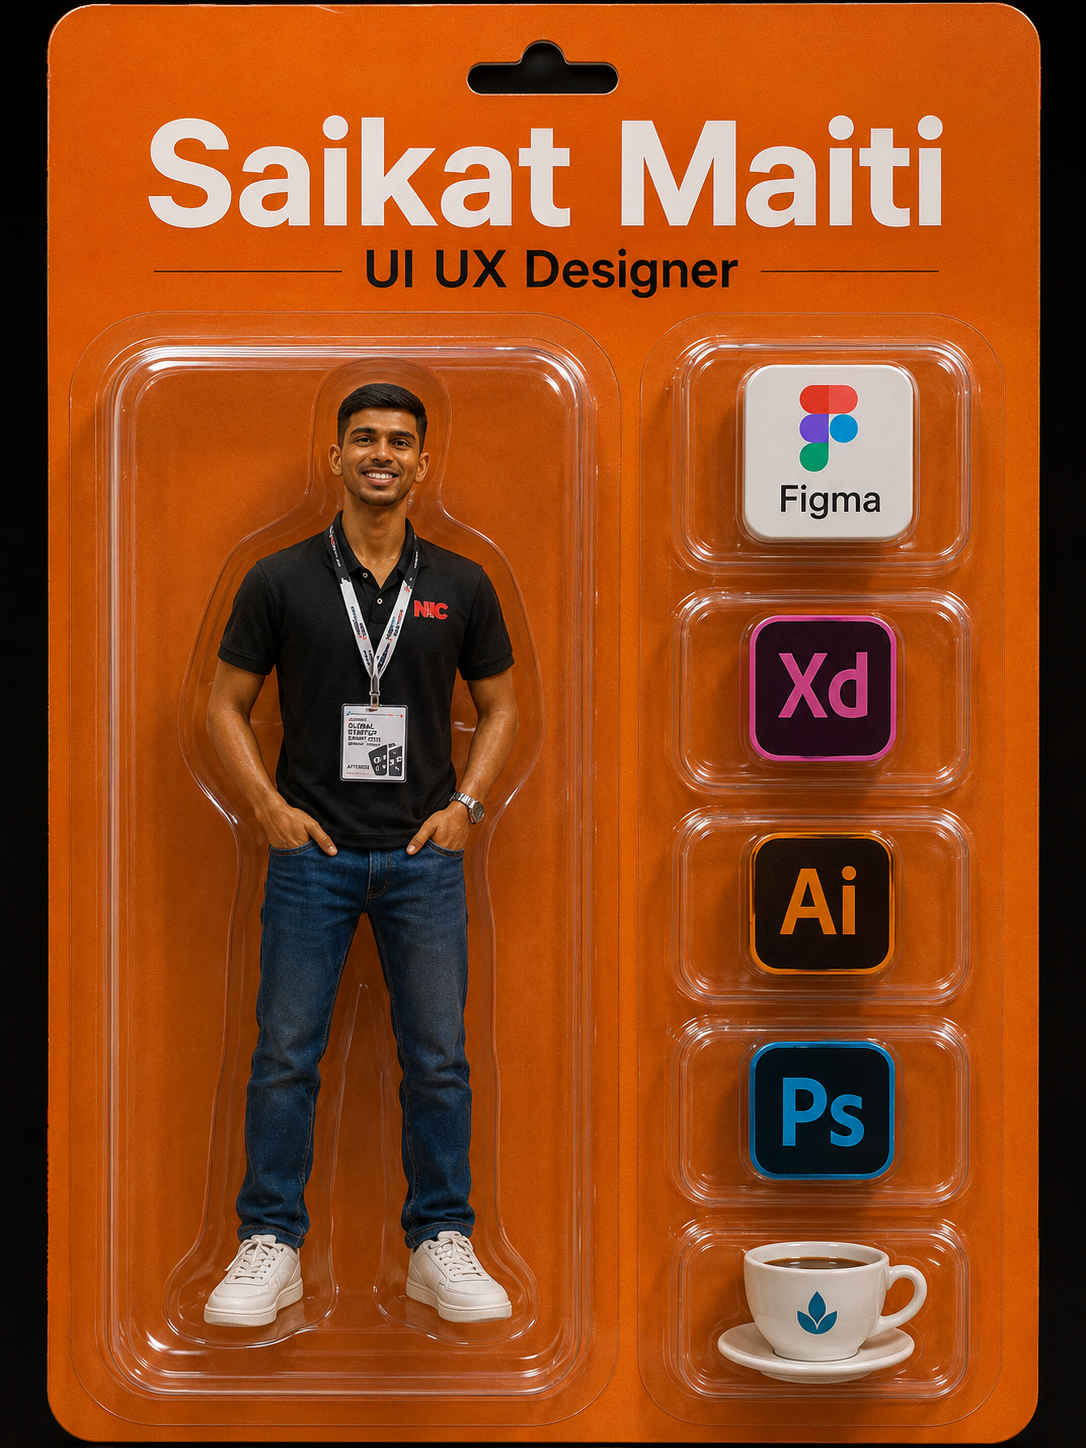
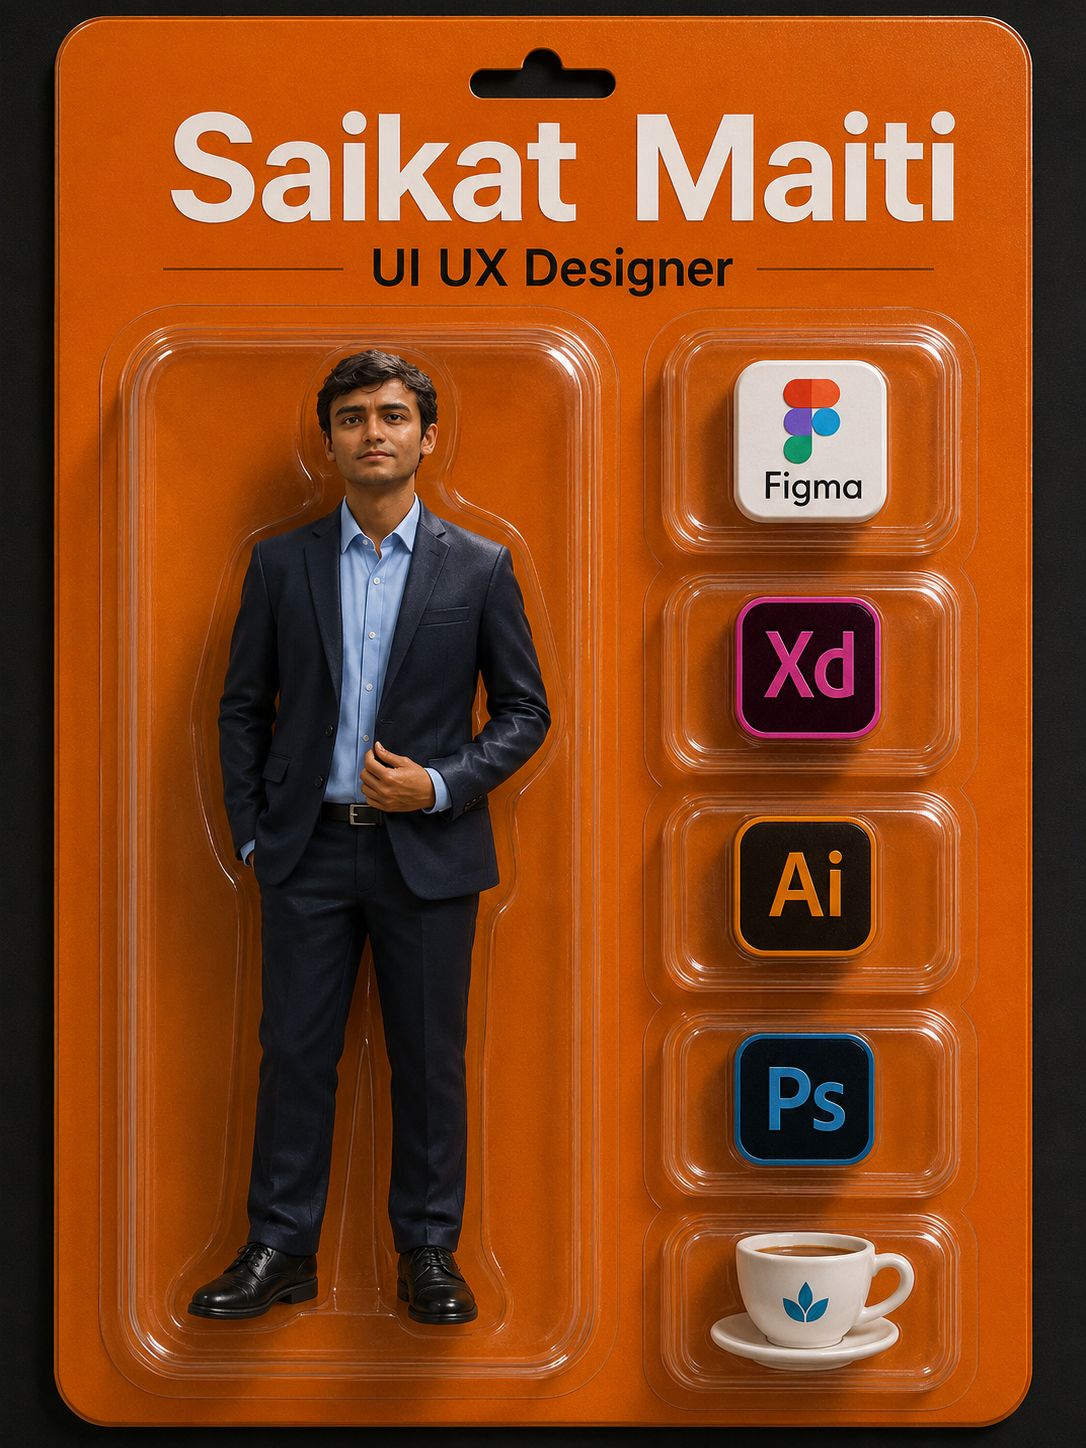
feat(about): all five members have artwork, demo bio wired
Remapped the member images from the new filenames. The earlier "tanishq" set
had been wired to Tanmay Bhaat; Tanmay's own files arrived this round, so
Tanmay now takes the white-shirt set, Ayush Singhal the navy-suit set, and the
tanishq set moves to Tania — the only remaining member, by elimination. All
five now have both a card and a photograph, so no initials fallback is left.

Demo biography applied to every member, rendered as three paragraphs with
{name} substituted and *emphasis* markers converted to <em> rather than printed
as literal asterisks.

Selector dropped from three columns to two. With five members and a
three-paragraph bio the detail side now runs ~820px, and 3-up left roughly
450px of empty column beneath the thumbs while squeezing each photo to 138px.
At 2-up the thumbs are 216px and fill the column.

diff --git a/src/components/TeamSelector.jsx b/src/components/TeamSelector.jsx
@@ -5,25 +5,38 @@ import ashishCard from '../assets/team-ashish-card.png';
 import ashishPhoto from '../assets/team-ashish-photo.jpg';
 import tanmayCard from '../assets/team-tanmay-card.png';
 import tanmayPhoto from '../assets/team-tanmay-photo.jpg';
+import taniaCard from '../assets/team-tania-card.png';
+import taniaPhoto from '../assets/team-tania-photo.jpg';
+import ayushCard from '../assets/team-ayush-card.png';
+import ayushPhoto from '../assets/team-ayush-photo.png';
+
+/* Placeholder biography, supplied as demo copy and applied to every member.
+   TODO(BIO): this is NOT true of everyone — it describes one person's history
+   with Aone Plastic Machinery, and it uses "his" throughout. Shipping it as-is
+   publishes four incorrect biographies of real, named people. Replace with a
+   per-member bio (or drop the field) before this page goes live. */
+const DEMO_BIO = [
+  '{name} brings over 5 years of hands-on experience in running and managing a manufacturing business through his involvement with Aone Plastic Machinery.',
+  'Having worked closely with day-to-day manufacturing operations, customers, processes, and business challenges, he has developed a practical understanding of the gaps and inefficiencies that businesses face in their operations.',
+  'His experience at the intersection of *manufacturing, business management, and technology* drives his approach to building practical digital solutions that solve real business problems.',
+];
 
 /* TEAM DATA
-   card:     large 3:4 artwork for the detail panel (left).
-   thumb:    real photograph for the selector tile (right).
-   focus:    object-position for the thumb crop; full-body shots need a high
-             value so the face survives the square crop.
-   Members without artwork fall back to an initials tile automatically.
+   card:  3:4 artwork for the detail panel (left).
+   thumb: photograph for the selector tile (right).
+   focus: object-position for the thumb crop; full-length shots need a high
+          value so the face survives the square crop.
+   Members with no artwork fall back to an initials tile automatically.
 
-   TODO(CARD-NAME): all three supplied cards are printed "Saikat Maiti / UI UX
-   Designer" — the template was not re-rendered per person, so Ashish's and
-   Tanmay's cards currently carry Saikat's name and job title.
-   TODO(BIO) / TODO(LINKEDIN): still unsupplied; both fields degrade to nothing
-   rather than being invented. */
+   TODO(CARD-NAME): every supplied card is printed "Saikat Maiti / UI UX
+   Designer" — the template was never re-rendered per person, so four members
+   currently display Saikat's name and job title on their card.
+   TODO(LINKEDIN): unsupplied; the button is omitted rather than linking to "#". */
 const TEAM = [
   {
     name: 'Ashish Kumar Roule',
     initials: 'AK',
     tags: ['Technology'],
-    bio: null,
     linkedin: null,
     card: ashishCard,
     thumb: ashishPhoto,
@@ -33,7 +46,6 @@ const TEAM = [
     name: 'Saikat Maiti',
     initials: 'SM',
     tags: ['Product Design'],
-    bio: null,
     linkedin: null,
     card: saikatCard,
     thumb: saikatPhoto,
@@ -43,31 +55,39 @@ const TEAM = [
     name: 'Tanmay Bhaat',
     initials: 'TB',
     tags: ['Sales & Marketing'],
-    bio: null,
     linkedin: null,
     card: tanmayCard,
     thumb: tanmayPhoto,
-    focus: '50% 30%',
+    focus: '50% 22%',
   },
   {
     name: 'Tania',
     initials: 'T',
     tags: ['AI & Technology'],
-    bio: null,
     linkedin: null,
-    card: null,
-    thumb: null,
+    card: taniaCard,
+    thumb: taniaPhoto,
+    focus: '50% 30%',
   },
   {
     name: 'Ayush Singhal',
     initials: 'AS',
     tags: ['Technology'],
-    bio: null,
     linkedin: null,
-    card: null,
-    thumb: null,
+    card: ayushCard,
+    thumb: ayushPhoto,
+    focus: '50% 20%',
   },
 ];
+
+/* Renders *emphasis* spans and substitutes the member's name. */
+function bioParagraph(text, name) {
+  return text.replace('{name}', name).split(/(\*[^*]+\*)/).map((chunk, i) =>
+    chunk.startsWith('*') && chunk.endsWith('*')
+      ? <em key={i}>{chunk.slice(1, -1)}</em>
+      : chunk
+  );
+}
 
 const SWITCH_MS = 220;
 
@@ -134,7 +154,11 @@ export default function TeamSelector() {
               <span key={t}>{t}</span>
             ))}
           </div>
-          {member.bio && <p className="tm-detail-bio tm-fade">{member.bio}</p>}
+          <div className="tm-detail-bio tm-fade">
+            {DEMO_BIO.map((para, i) => (
+              <p key={i}>{bioParagraph(para, member.name)}</p>
+            ))}
+          </div>
           <div className="tm-detail-actions tm-fade">
             {member.linkedin && (
               <a

diff --git a/src/index.css b/src/index.css
@@ -5719,11 +5719,24 @@ body.no-scroll {
 }
 
 .tm-detail-bio {
-    font-size: 15.5px;
+    max-width: 52ch;
+    margin-bottom: 26px;
+}
+
+.tm-detail-bio p {
+    font-size: 15px;
     line-height: 1.7;
     color: var(--ink-body);
-    max-width: 52ch;
-    margin-bottom: 30px;
+}
+
+.tm-detail-bio p + p {
+    margin-top: 14px;
+}
+
+.tm-detail-bio em {
+    font-style: normal;
+    font-weight: 600;
+    color: var(--ink);
 }
 
 .tm-detail-actions {
@@ -5787,7 +5800,10 @@ body.no-scroll {
 /* ---- Right: selector thumbnails ---- */
 .tm-selector {
     display: grid;
-    grid-template-columns: repeat(3, 1fr);
+    /* Two columns rather than the reference's three: with five members and a
+       three-paragraph bio the detail side runs tall, and 3-up left a large void
+       beneath the thumbs while shrinking each photo to ~138px. */
+    grid-template-columns: repeat(2, 1fr);
     gap: 16px;
     align-content: start;
 }
